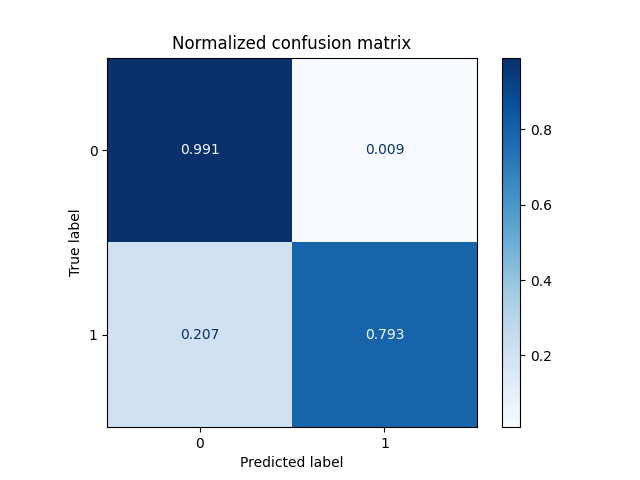
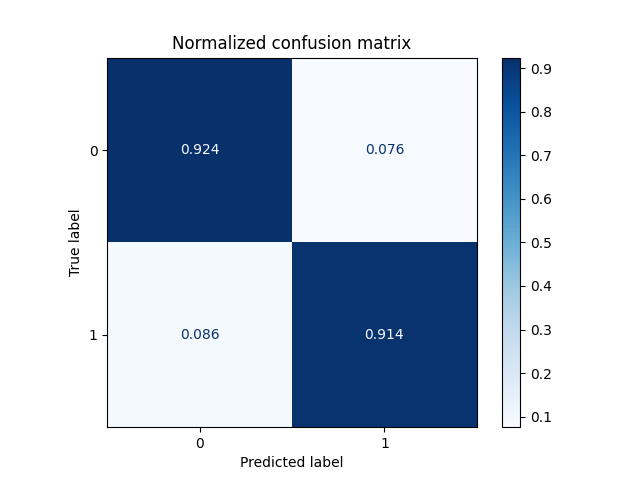
Tunes models

diff --git a/experiments/01/baseline/evaluation/Wednesday/numeric-vector_binary.py b/experiments/01/baseline/evaluation/Wednesday/numeric-vector_binary.py
@@ -5,7 +5,7 @@ from matplotlib import pyplot as plt
 from pandas import DataFrame
 from sklearn.ensemble import RandomForestClassifier
 from sklearn.linear_model import LogisticRegression
-from sklearn.metrics import confusion_matrix, plot_confusion_matrix
+from sklearn.metrics import confusion_matrix, plot_confusion_matrix, classification_report
 from sklearn.experimental import enable_halving_search_cv
 from sklearn.model_selection import cross_val_score, HalvingGridSearchCV
 from sklearn.model_selection import train_test_split
@@ -14,7 +14,7 @@ from sklearn.model_selection import train_test_split
 # Read data
 mergedAllDf = pd.read_csv("experiments/01/baseline/evaluation/Wednesday/Wednesday_labeled.csv")
 mergedAllDf = pd.DataFrame(mergedAllDf).fillna(0)
-nonAttacksDf = mergedAllDf[mergedAllDf.Label == 0].sample(n=5500, random_state=123)
+nonAttacksDf = mergedAllDf[mergedAllDf.Label == 0].sample(n=5000, random_state=123)
 attacksDf = mergedAllDf[mergedAllDf.Label == 1]
 
 nonAttacksDf = nonAttacksDf.drop(columns=['flowStartMilliseconds', 'flowDurationMilliseconds', 'sourceIPAddress', 'destinationIPAddress', 'Attack'])
@@ -52,27 +52,29 @@ print("TEST:  Samples per class: {}".format(np.bincount(y_test)))
 
 
 #%%
-# sample_weight = np.array([1 if i == 1 else 1 for i in y_train])
-# model = RandomForestClassifier(random_state=20)
-# model.fit(X_train, y_train, sample_weight=sample_weight)
-# print("Train set score: {:.3f}".format(model.score(X_train, y_train)))
-# print("Test set score:  {:.3f}".format(model.score(X_test, y_test)))
+sample_weight = np.array([1 if i == 1 else 1 for i in y_train])
+model = RandomForestClassifier(random_state=20)
+model.fit(X_train, y_train, sample_weight=sample_weight)
+print("Train set score: {:.3f}".format(model.score(X_train, y_train)))
+print("Test set score:  {:.3f}".format(model.score(X_test, y_test)))
 
-param_grid = {
-    'max_depth': [10, 11, 12, 13, 14, 15],
-    'min_samples_split': [3, 5, 8, 10, 15, 20, 30]
-}
-
-base_estimator = RandomForestClassifier(n_estimators=100, class_weight='balanced_subsample', verbose=0, n_jobs=-1, random_state=20)
-
-grid_search = HalvingGridSearchCV(base_estimator, param_grid, cv=5, factor=2, resource='n_estimators', max_resources=20, random_state=2021, n_jobs=-1, verbose=1)
-grid_search.fit(X_train, y_train)
-model = grid_search.best_estimator_
+# param_grid = {
+#     'max_depth': [10, 11, 12, 13, 14, 15],
+#     'min_samples_split': [3, 5, 8, 10, 15, 20, 30]
+# }
+#
+# base_estimator = RandomForestClassifier(n_estimators=100, class_weight='balanced_subsample', verbose=0, n_jobs=-1, random_state=20)
+#
+# grid_search = HalvingGridSearchCV(base_estimator, param_grid, cv=5, factor=2, resource='n_estimators', max_resources=20, random_state=2021, n_jobs=-1, verbose=1)
+# grid_search.fit(X_train, y_train)
+# model = grid_search.best_estimator_
 
 #%%
 predictions = model.predict(X_test)
 confusion_matrix_result = confusion_matrix(y_test, predictions)
-print("Confusion matrix:\n{}".format(confusion_matrix_result))
+
+print(classification_report(y_test, predictions))
+
 
 # predictionsDf: DataFrame = pd.DataFrame({
 #     'transcription': X_test,

diff --git a/experiments/01/model/Thursday/rf-bag-of-words-binary.py b/experiments/01/model/Thursday/rf-bag-of-words-binary.py
@@ -6,7 +6,7 @@ from pandas import DataFrame
 from sklearn.ensemble import RandomForestClassifier
 from sklearn.feature_extraction.text import CountVectorizer
 from sklearn.linear_model import LogisticRegression
-from sklearn.metrics import confusion_matrix, plot_confusion_matrix
+from sklearn.metrics import confusion_matrix, plot_confusion_matrix, classification_report
 from sklearn.experimental import enable_halving_search_cv
 from sklearn.model_selection import cross_val_score, HalvingGridSearchCV
 from sklearn.model_selection import train_test_split
@@ -67,35 +67,36 @@ X_test_words = vectorizer.transform(X_test.values.astype('U'))
 
 
 #%%
-# model = LogisticRegression()
-# sample_weight = np.array([13 if i == 1 else 1 for i in y_train])
-# model = RandomForestClassifier(random_state=20, n_jobs=-1)
-# model.fit(X_train_words, y_train, sample_weight=sample_weight)
-# print("Train set score: {:.3f}".format(model.score(X_train_words, y_train)))
+model = LogisticRegression()
+sample_weight = np.array([13 if i == 1 else 1 for i in y_train])
+model = RandomForestClassifier(random_state=20, n_jobs=-1)
+model.fit(X_train_words, y_train, sample_weight=sample_weight)
+print("Train set score: {:.3f}".format(model.score(X_train_words, y_train)))
 # print("Test set score:  {:.3f}".format(model.score(X_test_words, y_test)))
 
-param_grid = {
-    'max_depth': [10, 11, 12, 13, 14, 15],
-    'min_samples_split': [3, 5, 8, 10, 15, 20, 30]
-}
-
-base_estimator = RandomForestClassifier(n_estimators=100, class_weight='balanced_subsample', verbose=0, n_jobs=-1, random_state=2021)
-
-grid_search = HalvingGridSearchCV(base_estimator, param_grid, cv=5, factor=2, resource='n_estimators', max_resources=20, random_state=2021, n_jobs=-1, verbose=1)
-grid_search.fit(X_train_words, y_train)
-model = grid_search.best_estimator_
+# param_grid = {
+#     'max_depth': [None, 10, 11, 12, 13, 14, 15],
+#     'min_samples_split': [2, 3, 5, 8, 10, 15, 20, 30]
+# }
+#
+# base_estimator = RandomForestClassifier(n_estimators=100, class_weight='balanced_subsample', verbose=0, n_jobs=-1, random_state=2021)
+#
+# grid_search = HalvingGridSearchCV(base_estimator, param_grid, cv=5, factor=2, resource='n_estimators', max_resources=20, random_state=2021, n_jobs=-1, verbose=1)
+# grid_search.fit(X_train_words, y_train)
+# model = grid_search.best_estimator_
 
 #%%
 predictions = model.predict(X_test_words)
 confusion_matrix_result = confusion_matrix(y_test, predictions)
-print("Confusion matrix:\n{}".format(confusion_matrix_result))
 
-predictionsDf: DataFrame = pd.DataFrame({
-    'transcription': X_test,
-    'Label': y_test,
-    'Label_predicted': predictions
-})
-predictionsDf.to_csv('predictions.csv', index=False, sep="\t", quoting=3)
+print(classification_report(y_test, predictions))
+
+# predictionsDf: DataFrame = pd.DataFrame({
+#     'transcription': X_test,
+#     'Label': y_test,
+#     'Label_predicted': predictions
+# })
+# predictionsDf.to_csv('predictions.csv', index=False, sep="\t", quoting=3)
 
 #%%
 # https://scikit-learn.org/stable/auto_examples/model_selection/plot_confusion_matrix.html

diff --git a/experiments/01/model/Wednesday_rf-bag-of-words/rf-bag-of-words-binary.py b/experiments/01/model/Wednesday_rf-bag-of-words/rf-bag-of-words-binary.py
@@ -6,7 +6,7 @@ from pandas import DataFrame
 from sklearn.ensemble import RandomForestClassifier
 from sklearn.feature_extraction.text import CountVectorizer
 from sklearn.linear_model import LogisticRegression
-from sklearn.metrics import confusion_matrix, plot_confusion_matrix
+from sklearn.metrics import confusion_matrix, plot_confusion_matrix, classification_report
 from sklearn.experimental import enable_halving_search_cv
 from sklearn.model_selection import cross_val_score, HalvingGridSearchCV
 from sklearn.model_selection import train_test_split
@@ -14,7 +14,7 @@ from sklearn.model_selection import train_test_split
 #%%
 # Read data
 mergedAllDf = pd.read_csv("experiments/01/transcription/out/Wednesday_transcription_labeled.tsv", sep='\t', quoting=3)
-nonAttacksDf = mergedAllDf[mergedAllDf.Label == 0].sample(n=3000, random_state=123)
+nonAttacksDf = mergedAllDf[mergedAllDf.Label == 0].sample(n=5000, random_state=123)
 attacksDf = mergedAllDf[mergedAllDf.Label == 1]
 
 nonAttacksDf = nonAttacksDf[['Label', 'transcription']]
@@ -88,7 +88,9 @@ model = grid_search.best_estimator_
 #%%
 predictions = model.predict(X_test_words)
 confusion_matrix_result = confusion_matrix(y_test, predictions)
-print("Confusion matrix:\n{}".format(confusion_matrix_result))
+
+print(classification_report(y_test, predictions))
+
 
 # predictionsDf: DataFrame = pd.DataFrame({
 #     'transcription': X_test,

diff --git a/experiments/01/model/Friday_rf-bag-of-words/Friday_rf-bag-of-words-binary.py b/experiments/01/model/Friday_rf-bag-of-words/Friday_rf-bag-of-words-binary.py
@@ -6,7 +6,7 @@ from pandas import DataFrame
 from sklearn.ensemble import RandomForestClassifier
 from sklearn.feature_extraction.text import CountVectorizer
 from sklearn.linear_model import LogisticRegression
-from sklearn.metrics import confusion_matrix, plot_confusion_matrix
+from sklearn.metrics import confusion_matrix, plot_confusion_matrix, classification_report
 from sklearn.experimental import enable_halving_search_cv
 from sklearn.model_selection import cross_val_score, HalvingGridSearchCV
 from sklearn.model_selection import train_test_split
@@ -92,12 +92,14 @@ predictions = model.predict(X_test_words)
 confusion_matrix_result = confusion_matrix(y_test, predictions)
 print("Confusion matrix:\n{}".format(confusion_matrix_result))
 
-predictionsDf: DataFrame = pd.DataFrame({
-    'transcription': X_test,
-    'Label': y_test,
-    'Label_predicted': predictions
-})
-predictionsDf.to_csv('predictions.csv', index=False, sep="\t", quoting=3)
+print(classification_report(y_test, predictions))
+
+# predictionsDf: DataFrame = pd.DataFrame({
+#     'transcription': X_test,
+#     'Label': y_test,
+#     'Label_predicted': predictions
+# })
+# predictionsDf.to_csv('predictions.csv', index=False, sep="\t", quoting=3)
 
 #%%
 # https://scikit-learn.org/stable/auto_examples/model_selection/plot_confusion_matrix.html
